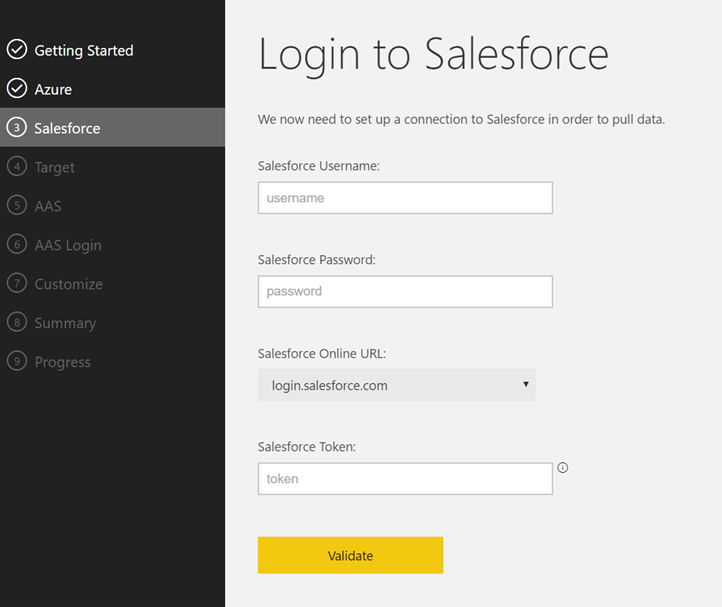
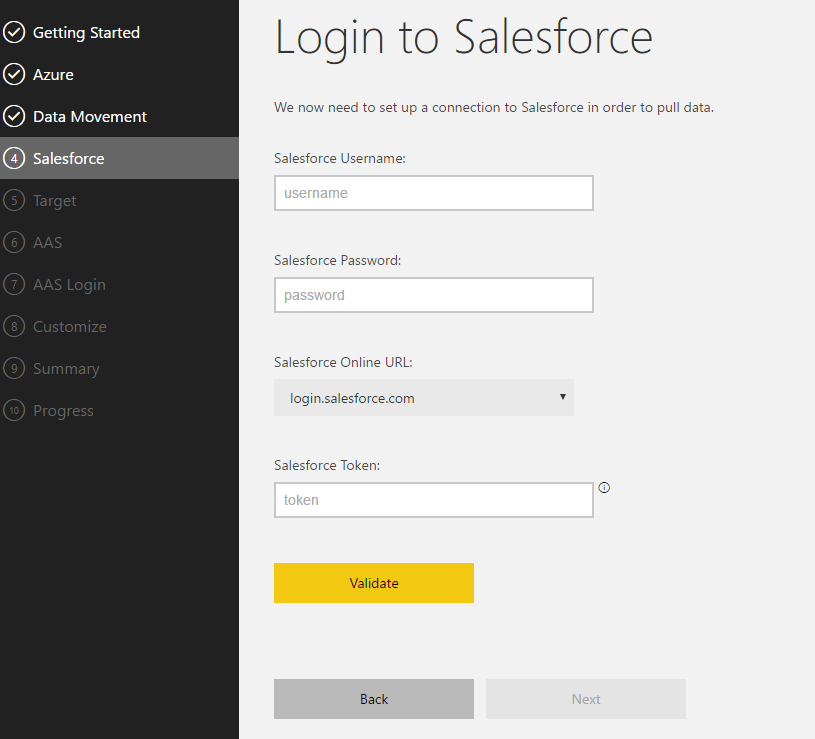
Updated documentation for sprint2 changes.

Changed region(s): [[0.0, 0.0, 0.9141, 1.0], [0.7008, 0.9193, 0.7313, 0.9786], [0.7313, 0.6524, 0.7618, 0.682]]

diff --git a/Source/Apps/Microsoft/Released/Microsoft-SalesforceSalesManagement/README.MD b/Source/Apps/Microsoft/Released/Microsoft-SalesforceSalesManagement/README.MD
@@ -99,6 +99,12 @@ For Azure installation, continue to step 2a. For on-premise installation, jump t
 Connect to Azure to grant the provisioning application th permissions to create resources in your subscription on your behalf.
 ![AzureConnect](Resources/Images/ConnectAzure.png)
 
+Once authenticated, select the azure subscription where any resources will be created:
+![AzureConnect2](Resources/Images/ConnectAzure2.png)
+
+The advanced option allows the name of the resource group to be changed from its default value. 
+
+
 #### Step 2 Connect to Salesforce
 Provide your Salesforce credentials to gain access to Salesforce. The security token will have been sent to you when your credentials were first created and with each password change. If you do not know this token, connect directly to Salesforce and generate a new token.
 The Salesforce login URL normally does not need to be changed from the default <https://login.salesforce.com>. Change this to <https://test.salesforce.com> if you are testing against a sandbox (a copy of your production environment used for testing and development).
@@ -121,7 +127,10 @@ Connect to an existing SQL Server or provide details which the application will 
 ![ConnectSQL](Resources/Images/ConnectAzureSQL.png)
 
 
-Important note: If you use an existing Azure SQL DB, you **_must_** safelist your client IP address shown on this page in the Azure portal before you continue.
+Expand the advanced option to change the Azure SQL Database service tier or data center location.
+
+
+_Important note_: If you use an existing Azure SQL DB, you **_must_** safelist your client IP address shown on this page in the Azure portal before you continue.
 If you do not, you will not be able to read data from Azure SQL DB to populate the Power BI file. To safe-list the IP addresses, follow the instructions [here](https://azure.microsoft.com/en-us/documentation/articles/sql-database-configure-firewall-settings/).
 
 Click “Next” to continue.

diff --git a/Source/Apps/Microsoft/Released/Microsoft-CRMSalesManagement/README.MD b/Source/Apps/Microsoft/Released/Microsoft-CRMSalesManagement/README.MD
@@ -110,8 +110,10 @@ Click “Next” to continue.
 Connect to an existing SQL Server or provide details which the application will use to spin up an Azure SQL on your behalf. Only Azure SQL is supported for this template. If a user chooses to spin up a new Azure SQL, this will get deployed in their Azure subscription inside the newly created resource group.
 ![ConnectSQL](Resources/Images/ConnectAzureSQL.png)
 
+Open the advanced tab to change the service tier of the destination Azure SQL Database or datacenter location.
 
-Important note: If you use an existing Azure SQL DB, you **_must_** safelist your client IP address shown on this page in the Azure portal before you continue.
+
+**_Important note_**: If you use an existing Azure SQL DB, you **_must_** safelist your client IP address shown on this page in the Azure portal before you continue.
 If you do not, you will not be able to read data from Azure SQL DB to populate the Power BI file. To safe-list the IP addresses, follow the instructions [here](https://azure.microsoft.com/en-us/documentation/articles/sql-database-configure-firewall-settings/).
 
 Click “Next” to continue.
@@ -198,7 +200,7 @@ If on-premise Dynamics 365 was selected earlier, the URL can be edited directly.
 
 
 
-### Step 5b: Connect to SQL Server Database/SQL Server Database with Analysis Services
+### Step 5b: Connect to SQL Server Database
 
 Provide your Azure SQL Database credentials to gain access to the destination SQL Server database. Click validate check your credentials.
 
